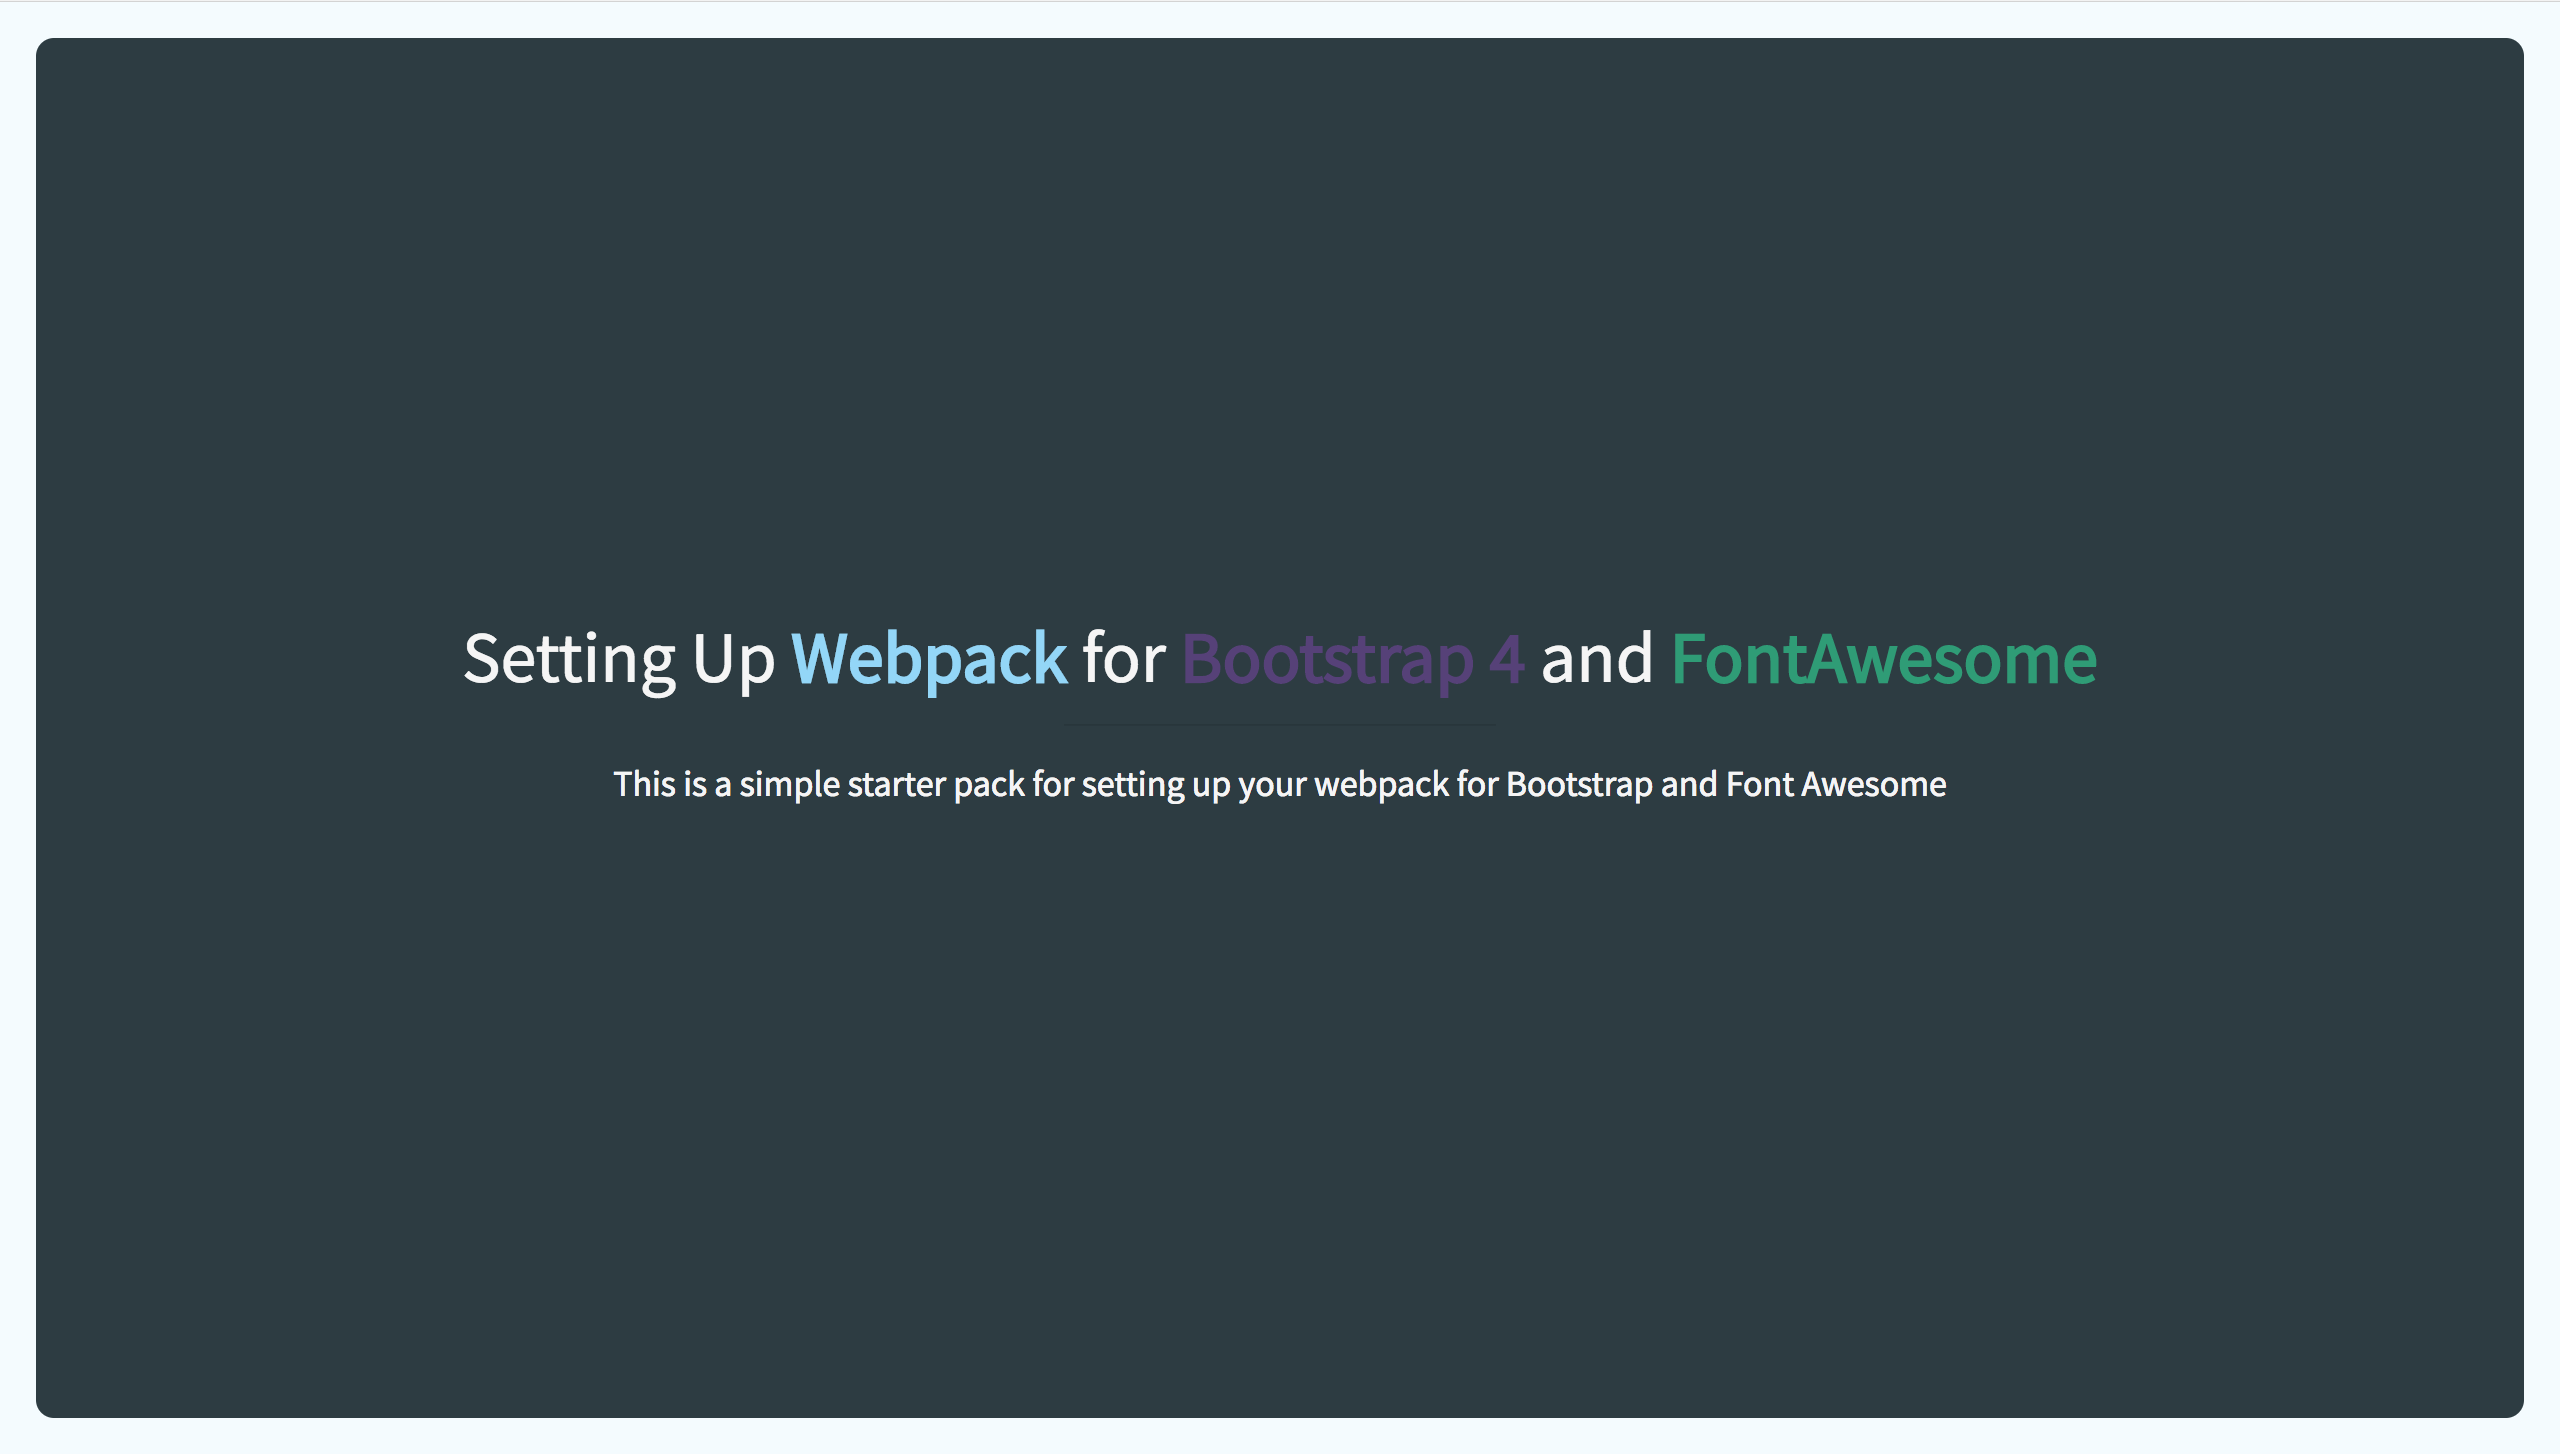
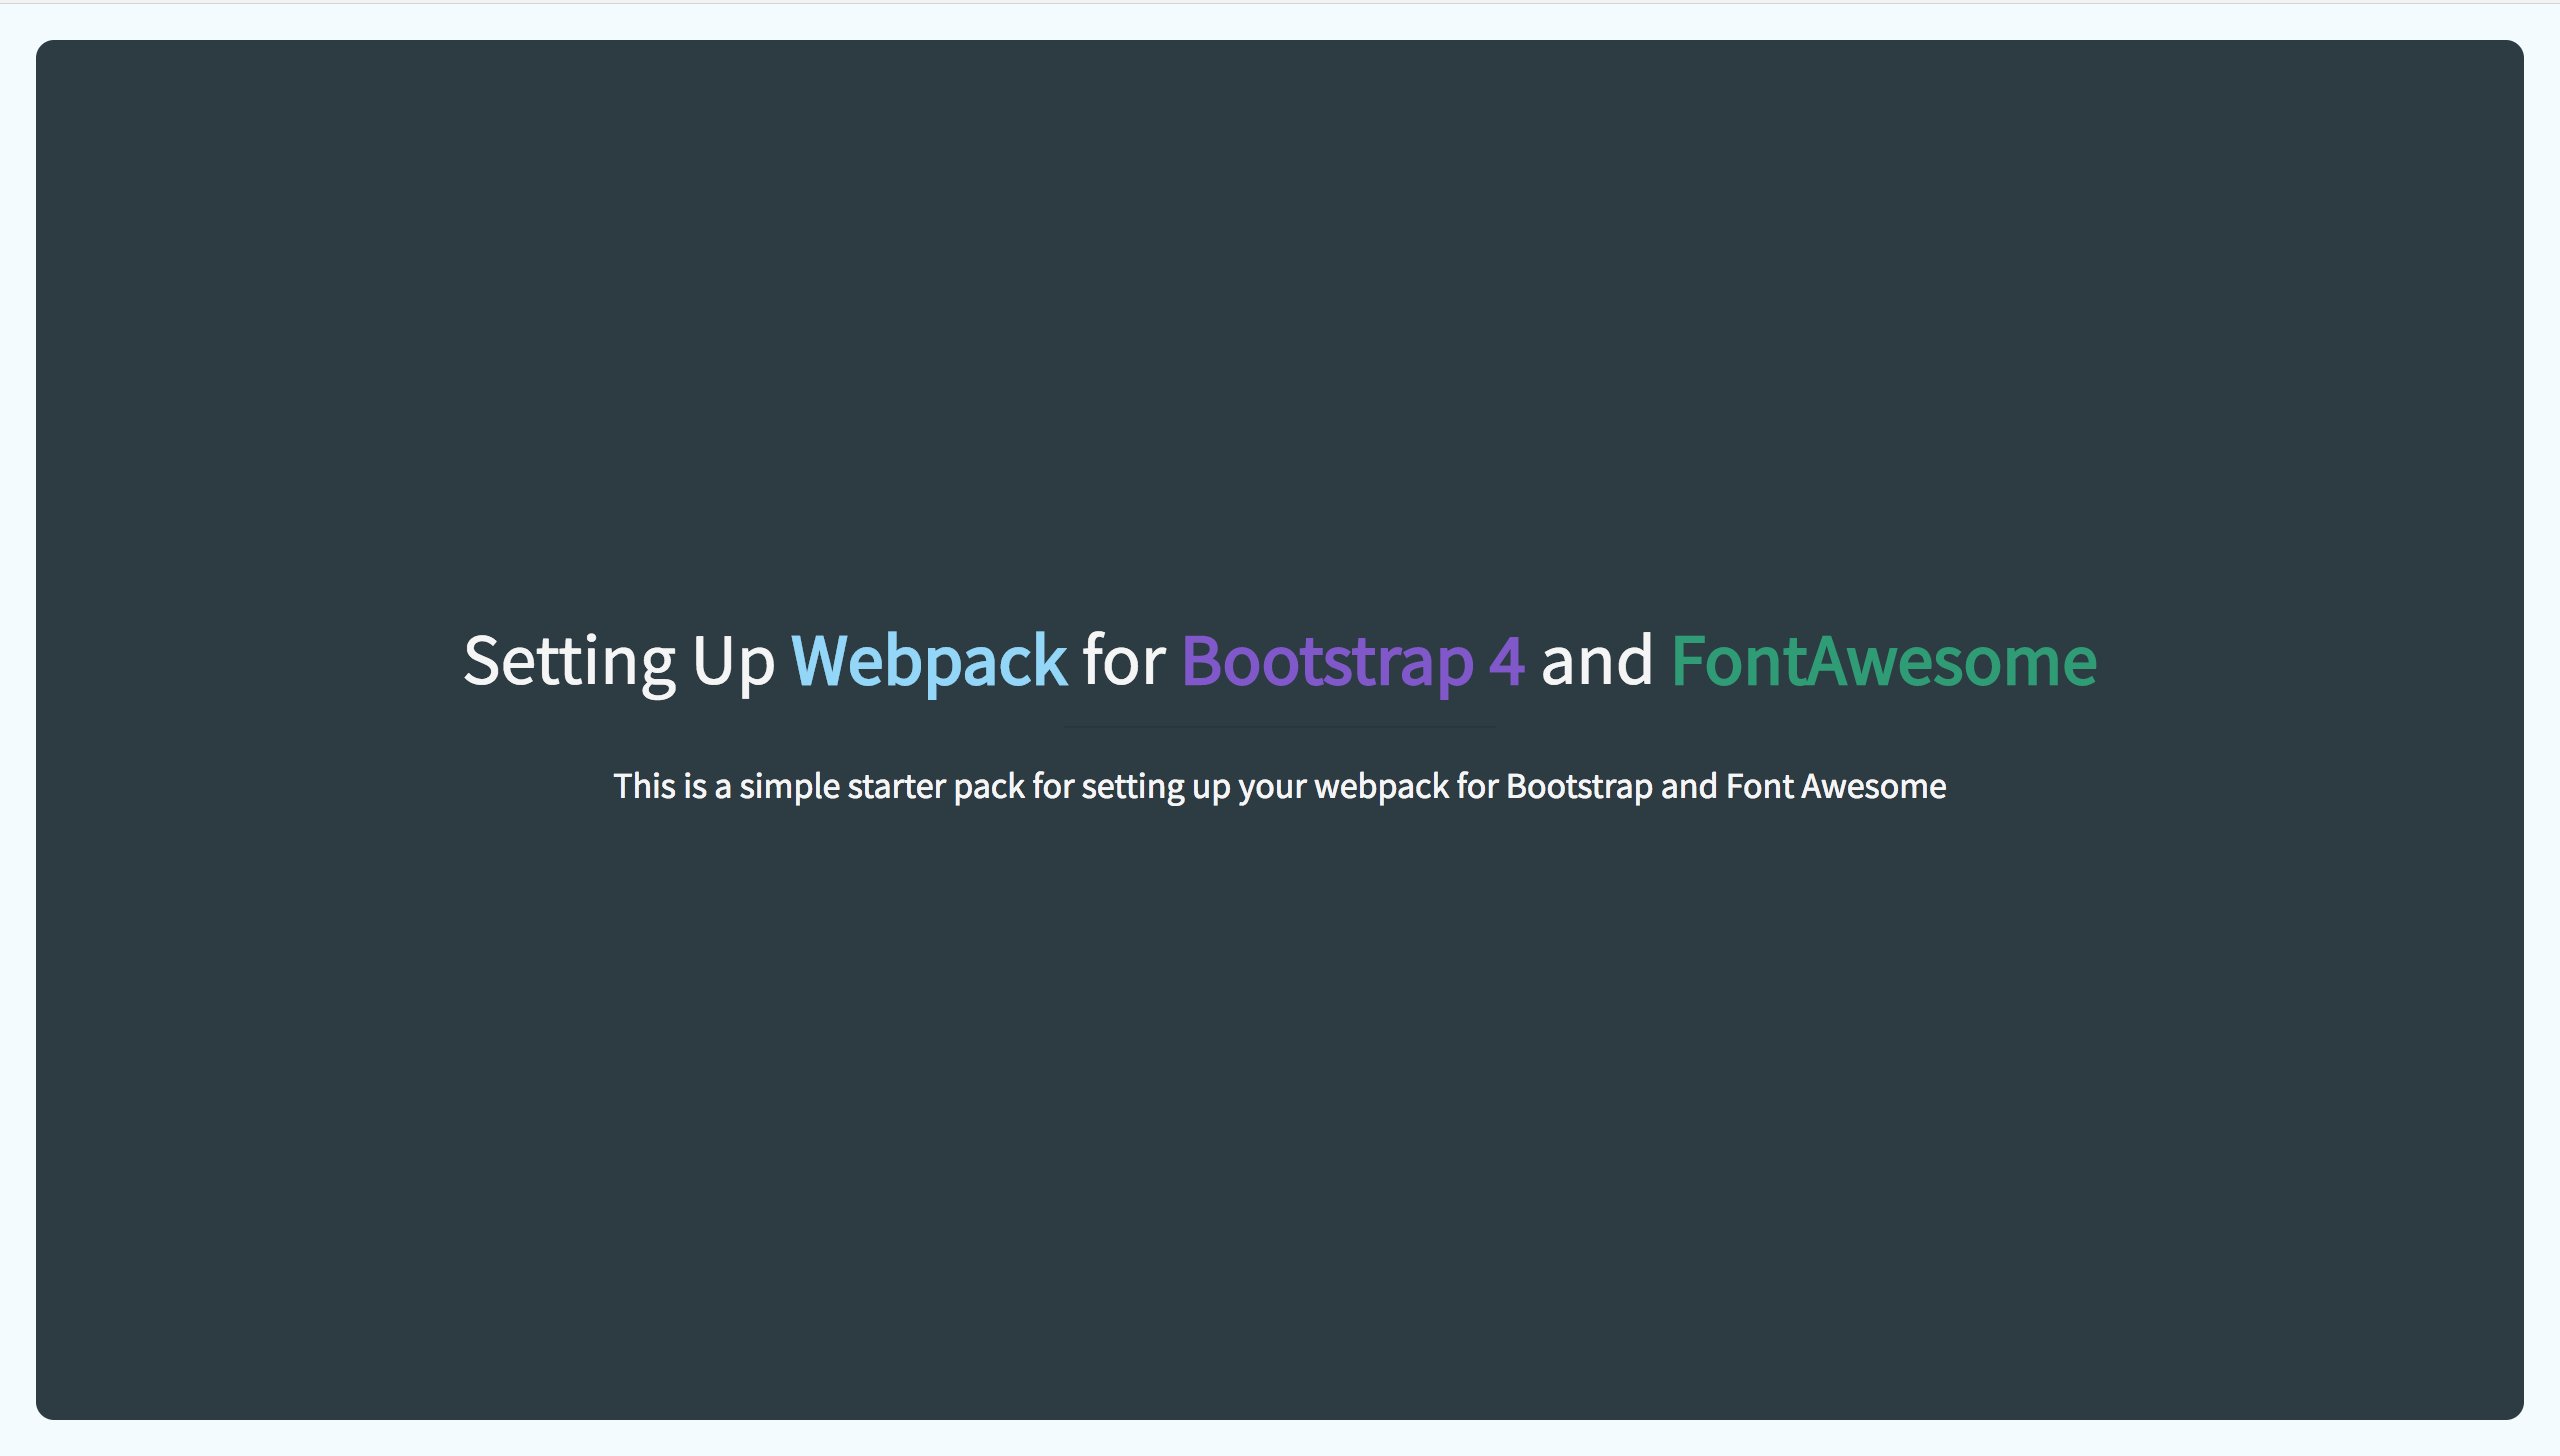
- Update screenshot

diff --git a/client/main.css b/client/main.css
@@ -8276,7 +8276,7 @@ header.jumbotron h1 strong:nth-child(1) a {
     color: #91d6f9; }
 
 header.jumbotron h1 strong:nth-child(2) a {
-    color: #563f7a; }
+    color: #8153cc; }
 
 header.jumbotron h1 strong:nth-child(3) a {
     color: #279d75; }

diff --git a/client/main.scss b/client/main.scss
@@ -3,7 +3,7 @@
 
 $webpack-color: rgb(145, 214, 249);
 $fontawesome-color: rgb(39, 157, 117);
-$bootstrap-color: rgb(86, 63, 122);
+$bootstrap-color: rgb(129, 83, 204);
 $background-color: rgb(44, 59, 66);
 
 .home {
